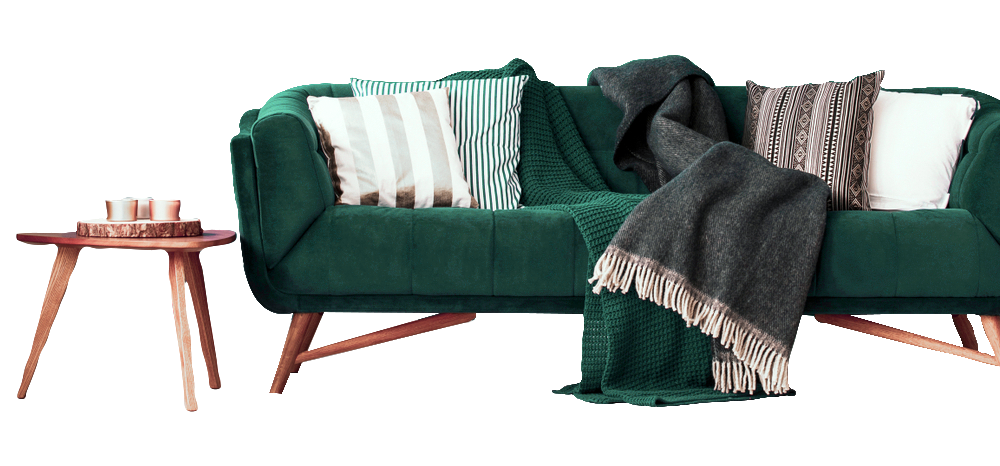
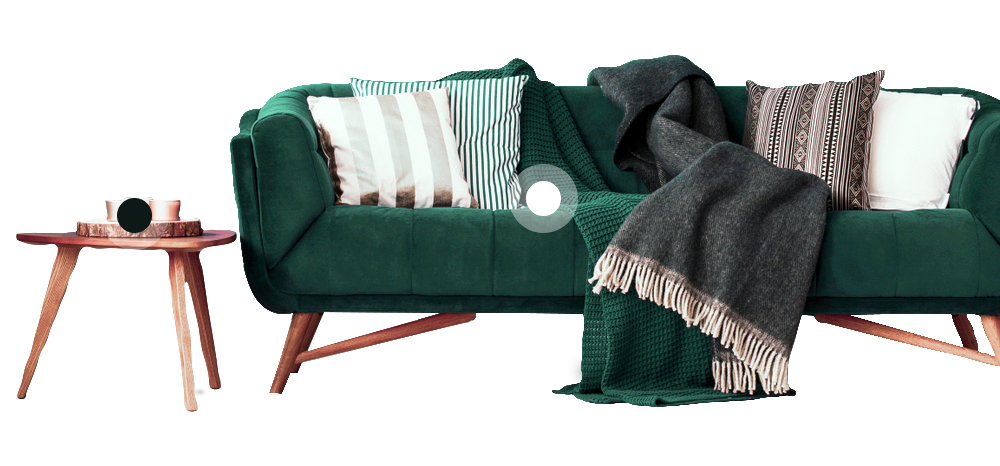
hero

Changed region(s): [[0.496, 0.3305, 0.589, 0.5107], [0.093, 0.4206, 0.186, 0.5408]]

diff --git a/src/app/home/home.component.scss b/src/app/home/home.component.scss
@@ -14,7 +14,7 @@ main {
     background-position: 150% top;
     #hero {
       width: 90%;
-      height: 80%;
+      height: 90%;
       margin: 0 auto;
       display: grid;
       grid-template-columns: 35% auto;
@@ -69,8 +69,8 @@ main {
         }
         .hero_product_box {
           position: absolute;
-          top: 5%;
-          left: 45%;
+          top: -10%;
+          left: 35%;
           background: rgba(58, 70, 75, 0.2);
           box-shadow: 0px 4px 51px rgba(8, 13, 10, 0.25),
             inset 50.081px -73.9292px 155.013px -7.15444px
